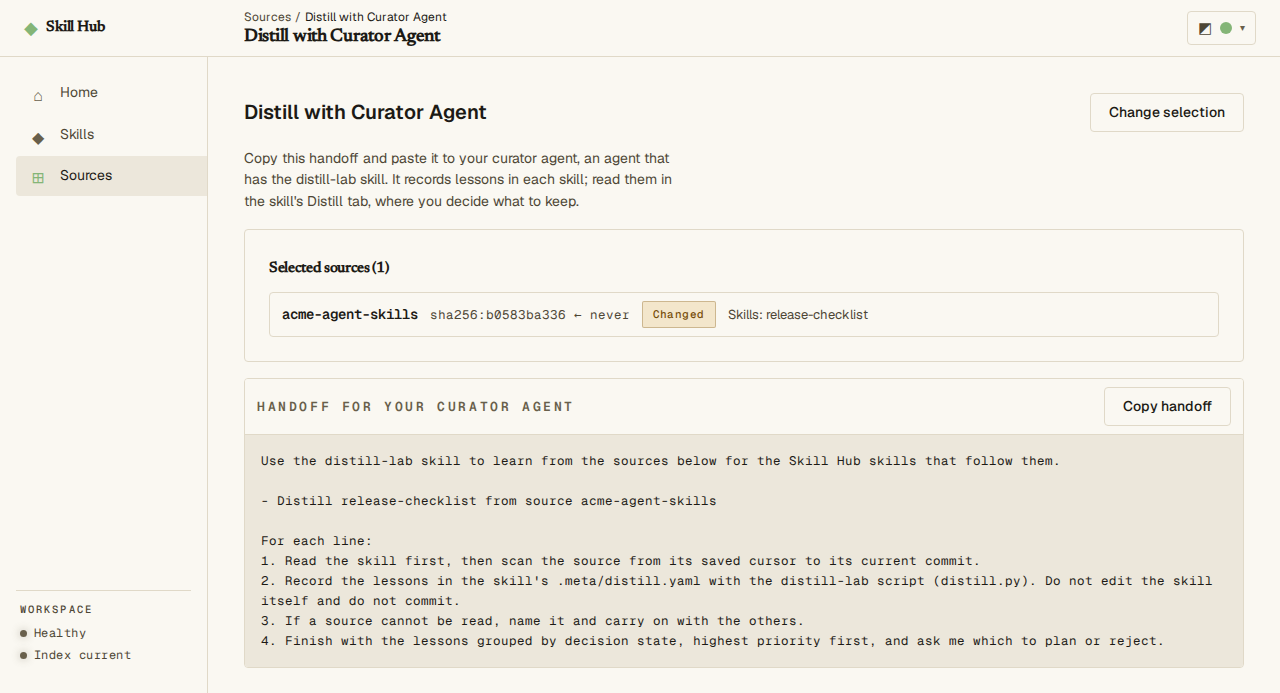
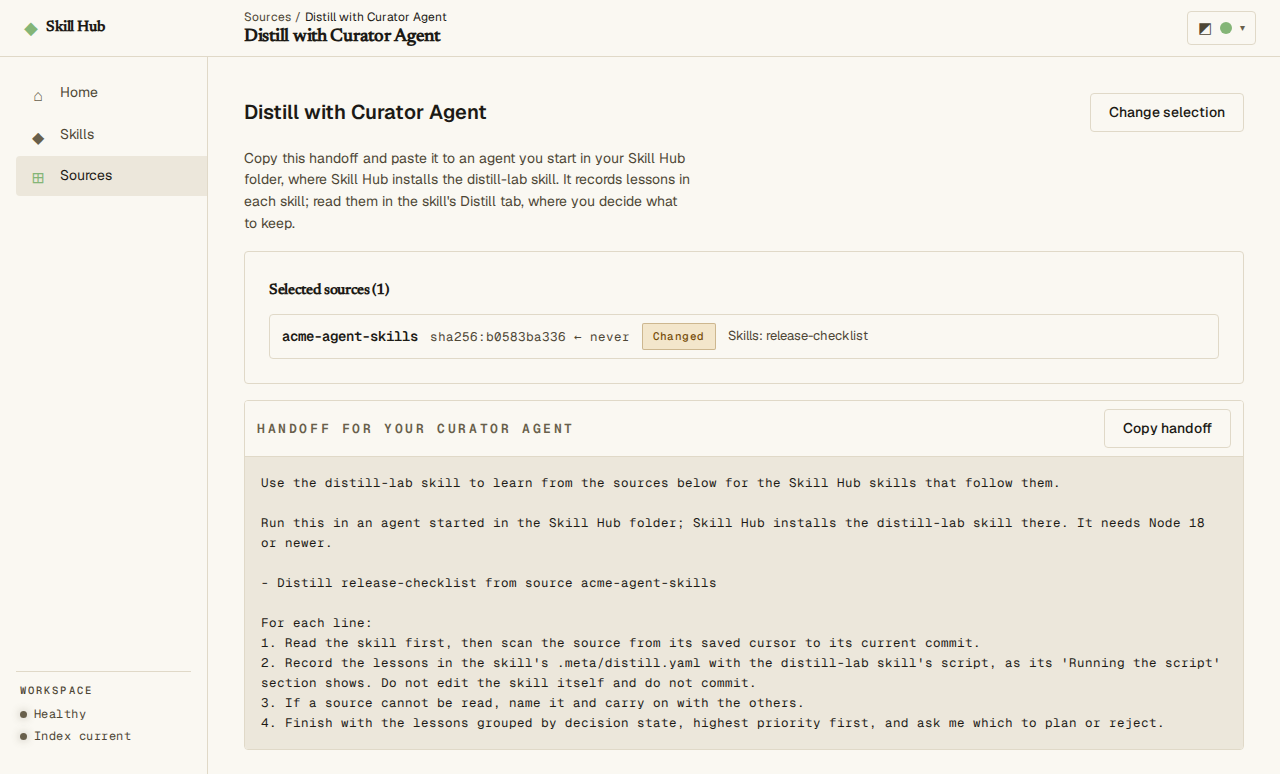
fix(web): tell the user to run the distill handoff in the hub folder

diff --git a/web/src/domain/handoff-brief.ts b/web/src/domain/handoff-brief.ts
@@ -18,11 +18,13 @@ export function buildHandoffBrief(input: HandoffBriefInput): string {
 
   return `Use the distill-lab skill to learn from the sources below for the Skill Hub skills that follow them.
 
+Run this in an agent started in the Skill Hub folder; Skill Hub installs the distill-lab skill there. It needs Node 18 or newer.
+
 ${lines.join('\n')}
 
 For each line:
 1. Read the skill first, then scan the source from its saved cursor to its current commit.
-2. Record the lessons in the skill's .meta/distill.yaml with the distill-lab script (distill.py). Do not edit the skill itself and do not commit.
+2. Record the lessons in the skill's .meta/distill.yaml with the distill-lab skill's script, as its 'Running the script' section shows. Do not edit the skill itself and do not commit.
 3. If a source cannot be read, name it and carry on with the others.
 4. Finish with the lessons grouped by decision state, highest priority first, and ask me which to plan or reject.`;
 }

diff --git a/web/src/screens/skill-detail/DistillTab.tsx b/web/src/screens/skill-detail/DistillTab.tsx
@@ -8,7 +8,7 @@ const TITLE_GOAL = 'Distillation Goal';
 const MSG_NO_GOAL = 'No explicit distillation goal stated.';
 const MSG_NO_LESSONS = 'No lessons recorded yet.';
 const NOTE_DECIDE =
-  'This page only shows the lessons. Your curator agent records and decides them: tell it, for example, "1 planned, 3 rejected: already covered". Or run the distill-lab script yourself: distill.py decide <file> <number> --state planned|ported|rejected.';
+  'This page only shows the lessons. Your curator agent records and decides them: tell it, for example, "1 planned, 3 rejected: already covered". Or run the distill-lab script\'s decide command yourself in your hub folder; the skill\'s "Running the script" section shows it.';
 const LABEL_WHAT = 'What: ';
 const LABEL_NOTABLE = 'Notable: ';
 const LABEL_CONTRAST = 'Contrast: ';

diff --git a/web/src/screens/distill/DistillHandoffScreen.tsx b/web/src/screens/distill/DistillHandoffScreen.tsx
@@ -21,7 +21,7 @@ const MSG_NONE_READY =
 const BTN_OPEN_SOURCES = 'Open Sources';
 const BTN_CHANGE_SELECTION = 'Change selection';
 const INTRO_BRIEF =
-  'Copy this handoff and paste it to your curator agent, an agent that has the distill-lab skill. It records lessons in each skill; read them in the skill\'s Distill tab, where you decide what to keep.';
+  'Copy this handoff and paste it to an agent you start in your Skill Hub folder, where Skill Hub installs the distill-lab skill. It records lessons in each skill; read them in the skill\'s Distill tab, where you decide what to keep.';
 const LABEL_SKILLS = 'Skills: ';
 const LABEL_NO_SKILL = 'no linked skill';
 const TITLE_BRIEF_BAR = 'Handoff for your Curator Agent';

diff --git a/web/src/domain/handoff-brief.test.ts b/web/src/domain/handoff-brief.test.ts
@@ -14,7 +14,10 @@ describe('handoff-brief', () => {
     expect(brief).toContain('- Distill skill-1, skill-2 from source source-a');
     expect(brief).toContain('- Distill skill-3 from source source-b');
     expect(brief).toContain('.meta/distill.yaml');
-    expect(brief).toContain('distill.py');
+    expect(brief).toContain('Skill Hub folder');
+    expect(brief).toContain('Node 18');
+    expect(brief).not.toContain('distill.py');
+    expect(brief).not.toContain('scripts/');
     expect(brief).toContain('do not commit');
   });
 

diff --git a/web/src/screens/distill/distill.test.tsx b/web/src/screens/distill/distill.test.tsx
@@ -111,6 +111,7 @@ describe('DistillHandoffScreen', () => {
     expect(pre.textContent).toContain('- Distill skill-1 from source source-a');
     expect(pre.textContent).toContain('- Distill skill-2 from source source-b');
     expect(pre.textContent).not.toContain('#token=');
+    expect(screen.getByText(/paste it to an agent you start in your Skill Hub folder/)).toBeInTheDocument();
     expect(screen.getByRole('link', { name: 'Change selection' })).toHaveAttribute('href', '/sources/distill');
   });
 

diff --git a/web/e2e/tier3.spec.ts b/web/e2e/tier3.spec.ts
@@ -62,6 +62,7 @@ test.describe('Tier 3 occasional flows', () => {
     await expect(page).toHaveURL(/\/sources\/distill\?source=/);
     const brief = await page.locator('pre').textContent();
     expect(brief).toContain('Use the distill-lab skill');
+    expect(brief).toContain('Skill Hub folder');
     expect(brief).toContain('consumer-review');
     expect(brief).not.toContain('curation_');
   });
